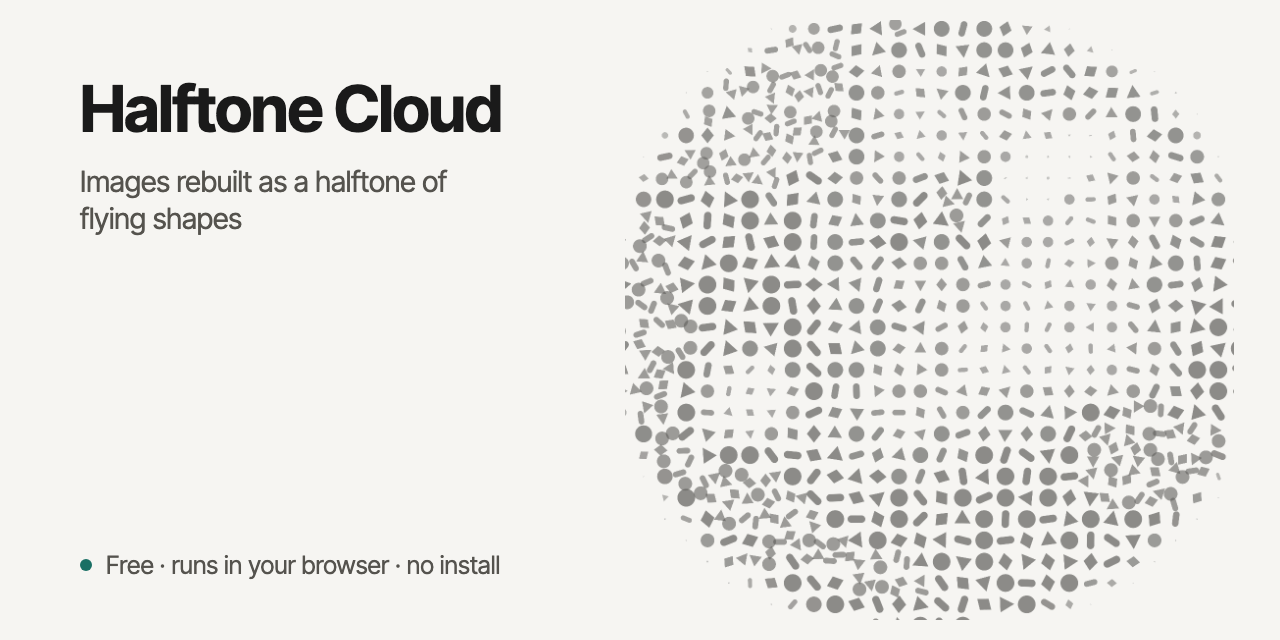
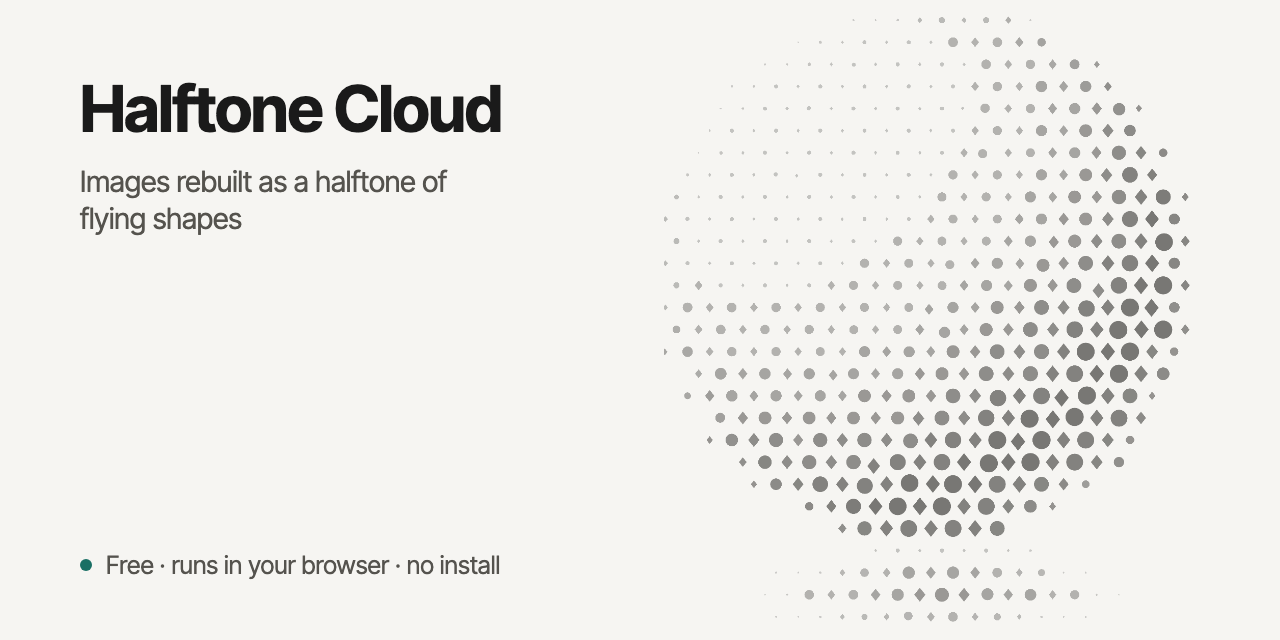
Halftone Cloud v2: opens on a finished picture, one shape per cell, tone by density

Changed region(s): [[0.4688, 0.0312, 0.9688, 0.9688]]

diff --git a/index.html b/index.html
@@ -119,7 +119,7 @@ legend{font:600 10.5px var(--h-sans);letter-spacing:.07em;color:var(--h-ink3)}
         <div id="dz">⇩ Drop files here or click</div>
         <input type="file" id="imgFile" accept="image/*" hidden multiple>
         <div style="margin-top:8px"><button class="btn" id="urlBtn">URL…</button>
-          <select class="tin" id="demoPick" style="width:auto;display:inline-block"><option>A</option><option>blob</option><option>ring</option><option>check</option></select>
+          <select class="tin" id="demoPick" style="width:auto;display:inline-block"><option>orb</option><option>A</option><option>blob</option><option>ring</option><option>check</option></select>
           <button class="btn" id="demoAdd">+ shape</button></div>
         <div class="row sel2" id="urlRow" style="display:none;margin-top:6px"><input class="tin" id="urlIn" placeholder="https://…png"><button class="btn" id="urlGo" style="margin:0">Load</button></div>
         <div id="srcList"></div>
@@ -319,7 +319,7 @@ function imageToField(src, G) {
   };
 }
 
-const SHAPES = [ 'mixed', 'char', 'circle', 'pill', 'diamond', 'triangle', 'ring', 'plus' ];
+const SHAPES = [ 'duo', 'mixed', 'char', 'circle', 'pill', 'diamond', 'triangle', 'ring', 'plus' ];
 
 const MIX = [ 'circle', 'pill', 'diamond', 'triangle' ];
 
@@ -371,15 +371,18 @@ const state = {
     radius: 1
   },
   grid: {
-    cell: 14,
-    steps: 6,
-    minR: 3,
-    maxR: 15,
-    floorCut: .1,
+    cell: 18,
+    steps: 7,
+    minR: 2.8,
+    maxR: 12.5,
+    floorCut: .07,
     soft: .2,
-    edgeFade: .25,
+    edgeFade: 0,
     scale: 1,
-    jitter: .35,
+    jitter: 0,
+    stagger: 1,
+    tone: .34,
+    breath: .05,
     invert: 0
   },
   story: {
@@ -392,7 +395,7 @@ const state = {
     transition: 'direct'
   },
   obj: {
-    shape: 'mixed',
+    shape: 'duo',
     symbols: '✳,●,◆',
     size: 1,
     variance: .4,
@@ -416,9 +419,9 @@ const gl = cv.getContext('webgl2', {
 
 let W = 0, H = 0, DPR = 1;
 
-const VERT = `#version 300 es\nlayout(location=0) in vec2 a_quad;\nlayout(location=1) in vec2 a_pos;\nlayout(location=2) in float a_size;\nlayout(location=3) in float a_alpha;\nlayout(location=4) in float a_rot;\nlayout(location=5) in float a_glyph;\nuniform vec2 u_res; uniform float u_atlasN;\nout vec2 v_uv; out float v_alpha; out float v_tone;\nvoid main(){\n  float s=sin(a_rot), c=cos(a_rot);\n  vec2 q=vec2(a_quad.x*c-a_quad.y*s, a_quad.x*s+a_quad.y*c);\n  vec2 p=q*a_size + a_pos;\n  vec2 clip=(p/u_res)*2.0-1.0; clip.y=-clip.y;\n  gl_Position=vec4(clip,0.0,1.0);\n  vec2 uv=a_quad+0.5;\n  v_uv=vec2((uv.x + a_glyph)/u_atlasN, uv.y);\n  v_alpha=a_alpha;\n  v_tone=mix(0.34,0.86,clamp((a_size-6.0)/30.0,0.0,1.0));\n}`;
+const VERT = `#version 300 es\nlayout(location=0) in vec2 a_quad;\nlayout(location=1) in vec2 a_pos;\nlayout(location=2) in float a_size;\nlayout(location=3) in float a_alpha;\nlayout(location=4) in float a_rot;\nlayout(location=5) in float a_glyph;\nuniform vec2 u_res; uniform float u_atlasN;\nout vec2 v_uv; out float v_alpha;\nvoid main(){\n  float s=sin(a_rot), c=cos(a_rot);\n  vec2 q=vec2(a_quad.x*c-a_quad.y*s, a_quad.x*s+a_quad.y*c);\n  vec2 p=q*a_size + a_pos;\n  vec2 clip=(p/u_res)*2.0-1.0; clip.y=-clip.y;\n  gl_Position=vec4(clip,0.0,1.0);\n  vec2 uv=a_quad+0.5;\n  v_uv=vec2((uv.x + a_glyph)/u_atlasN, uv.y);\n  v_alpha=a_alpha;\n}`;
 
-const FRAG = `#version 300 es\nprecision mediump float;\nin vec2 v_uv; in float v_alpha; in float v_tone;\nuniform sampler2D u_atlas; uniform vec3 u_ink;\nout vec4 frag;\nvoid main(){ float a=texture(u_atlas,v_uv).a*v_alpha*v_tone; if(a<0.01) discard; frag=vec4(u_ink*a, a); }`;
+const FRAG = `#version 300 es\nprecision mediump float;\nin vec2 v_uv; in float v_alpha;\nuniform sampler2D u_atlas; uniform vec3 u_ink;\nout vec4 frag;\nvoid main(){ float a=texture(u_atlas,v_uv).a*v_alpha; if(a<0.01) discard; frag=vec4(u_ink*a, a); }`;
 
 function compile(type, src) {
   const s = gl.createShader(type);
@@ -582,6 +585,7 @@ function glyphIndexFor(b) {
     const base = MIX.length + 3;
     return base + b.id % Math.max(1, SYMS.length);
   }
+  if (sh === 'duo') return b.id % 2 ? MIX.indexOf('diamond') : MIX.indexOf('circle');
   if (sh === 'mixed') return b.id % MIX.length;
   const gl2 = GLYPHS();
   const idx = gl2.findIndex(g => g.type === 'shape' && g.val === sh);
@@ -647,14 +651,19 @@ function ensurePool() {
 function layout(f) {
   const boxH = Math.min(W, H) * .82 * (state.grid.scale || 1), scale = boxH / f.rows, gw = f.cols * scale, gh = f.rows * scale;
   const ox = target.x * W - gw / 2, oy = target.y * H - gh / 2, G = state.grid, out = [];
+  const MIXI = MIX.indexOf('circle'), DIAI = MIX.indexOf('diamond');
   for (const cell of f.cells) {
     const jr = rng((cell.c * 73856093 ^ cell.r * 19349663 ^ seed) >>> 0);
-    const jx = (jr() - .5) * G.jitter * scale, jy = (jr() - .5) * G.jitter * scale;
+    const jx = (jr() - .5) * G.jitter * scale, jy = (jr() - .5) * G.jitter * scale, st = G.stagger && cell.r & 1 ? .5 * scale : 0;
     const size = lerp(G.minR, G.maxR, Math.sqrt(cell.q)) * state.obj.size * cell.sf;
+    const tone = lerp(G.tone, .82, Math.pow(cell.q, .85)) * lerp(.7, 1, cell.sf);
+    const gi = state.obj.shape === 'duo' ? cell.c + cell.r & 1 ? DIAI : MIXI : -1;
     out.push({
-      x: ox + (cell.c + .5) * scale + jx,
+      x: ox + (cell.c + .5) * scale + jx + st,
       y: oy + (cell.r + .5) * scale + jy,
-      size: size
+      size: size,
+      tone: tone,
+      gi: gi
     });
   }
   return out;
@@ -671,41 +680,30 @@ function assign(f) {
   let cells = cellsAll;
   if (cells.length > n) cells = cellsAll.slice().sort((a, b) => b.size * b.size - a.size * a.size).slice(0, n);
   const M = cells.length;
-  const mass = cells.map(c => Math.max(.001, c.size * c.size));
-  let sum = 0;
-  for (const m of mass) sum += m;
-  const alloc = new Array(M).fill(1);
-  let remaining = n - M;
-  const want = mass.map(m => remaining * m / sum);
-  for (let i = 0; i < M; i++) alloc[i] += Math.floor(want[i]);
-  let leftover = n - alloc.reduce((a, b) => a + b, 0);
-  const frac = want.map((w, i) => ({
-    i: i,
-    f: w - Math.floor(w)
-  })).sort((a, b) => b.f - a.f);
-  for (let j = 0; leftover > 0; j++, leftover--) alloc[frac[j % M].i]++;
-  const flat = [];
-  for (let i = 0; i < M; i++) {
-    const c = cells[i], k = alloc[i], sz = c.size / Math.sqrt(k) * 1.12;
-    for (let j = 0; j < k; j++) {
-      const rr = rng((i * 2654435761 ^ j * 40503 ^ seed >>> 0) >>> 0);
-      const ang = rr() * 6.2832, rad = k > 1 ? Math.sqrt(rr()) * c.size * .52 : 0;
-      flat.push({
-        x: c.x + Math.cos(ang) * rad,
-        y: c.y + Math.sin(ang) * rad,
-        size: sz
-      });
-    }
-  }
+  const flat = cells.map(c => ({
+    x: c.x,
+    y: c.y,
+    size: c.size,
+    tone: c.tone,
+    gi: c.gi
+  }));
   const kf = g => Math.round(g.y / 22) * 1e5 + g.x;
   const order = bits.map((b, i) => i).sort((a, b) => kf(bits[a]) - kf(bits[b]));
   flat.sort((a, b) => kf(a) - kf(b));
-  for (let k = 0; k < n; k++) {
-    const b = bits[order[k]], g = flat[k];
+  const take = Math.min(M, n), stride = n / take;
+  for (const b of bits) {
+    b.spare = true;
+    b.bound = false;
+  }
+  for (let k = 0; k < take; k++) {
+    const b = bits[order[Math.min(n - 1, Math.round(k * stride))]], g = flat[k];
+    b.spare = false;
     b.bound = true;
     b.tx = g.x;
     b.ty = g.y;
     b.tsize = g.size;
+    b.ttone = g.tone;
+    b.tgi = g.gi;
     b.talpha = 1;
   }
 }
@@ -764,8 +762,15 @@ function step(b, dt) {
     }
     b.x += b.vx * dt * s.speed;
     b.y += b.vy * dt * s.speed;
-    b.rad += (b.tsize - b.rad) * Math.min(1, dt * 4);
-    b.al += (1 - b.al) * Math.min(1, dt * 5);
+    const br = 1 + state.grid.breath * Math.sin(t * .9 + (b.tx + b.ty) * .012);
+    b.rad += (b.tsize * br - b.rad) * Math.min(1, dt * 4);
+    b.al += ((b.ttone ?? 1) - b.al) * Math.min(1, dt * 5);
+    if (fe > .5 && b.tgi >= 0 && b.tgi != null) b.gi = b.tgi;
+    if (fe > .5) {
+      let r = ((b.rot + Math.PI) % (Math.PI * 2) + Math.PI * 2) % (Math.PI * 2) - Math.PI;
+      b.av = 0;
+      b.rot -= r * Math.min(1, dt * 6);
+    }
   } else {
     const near = [];
     const cs = Math.max(40, sw.separation * .4);
@@ -801,10 +806,12 @@ function step(b, dt) {
     if (b.y < -30) b.y = H + 30;
     if (b.y > H + 30) b.y = -30;
     b.rad += (b.baseRad - b.rad) * Math.min(1, dt * 3);
-    b.al += (.86 - b.al) * Math.min(1, dt * 3);
+    b.al += ((b.spare && (phase === 'forming' || phase === 'held') ? 0 : .62) - b.al) * Math.min(1, dt * 3);
   }
-  b.av *= dampFactor(.9, dt);
-  b.rot += b.av * dt + Math.sin(t * .3 + b.seed * 11) * dt * .4;
+  if (!forming) {
+    b.av *= dampFactor(.9, dt);
+    b.rot += b.av * dt + Math.sin(t * .3 + b.seed * 11) * dt * .4;
+  } else b.rot += b.av * dt;
 }
 
 let nGrid = new Map;
@@ -949,7 +956,26 @@ function demoCanvas(kind) {
   c.fillStyle = '#fff';
   c.fillRect(0, 0, S, S);
   c.fillStyle = '#111';
-  if (kind === 'A') {
+  if (kind === 'orb') {
+    const im = c.createImageData(S, S), d = im.data, R = S * .36, cx = S * .5, cy = S * .44;
+    const lx = -.5, ly = -.56, lz = .66, ll = Math.hypot(lx, ly, lz);
+    for (let y = 0; y < S; y++) for (let x = 0; x < S; x++) {
+      const o = (y * S + x) * 4;
+      let L = 1;
+      const nx = (x + .5 - cx) / R, ny = (y + .5 - cy) / R, q = nx * nx + ny * ny;
+      const sx = (x + .5 - S * .52) / (S * .3), sy = (y + .5 - S * .865) / (S * .075), sd = sx * sx + sy * sy;
+      if (sd < 1) L = Math.min(L, 1 - .5 * Math.pow(1 - sd, 1.6));
+      if (q < 1) {
+        const nz = Math.sqrt(1 - q), lam = Math.max(0, (nx * lx + ny * ly + nz * lz) / ll);
+        const bounce = Math.pow(Math.max(0, nx * .55 + ny * .7), 2) * (1 - nz) * .22;
+        L = Math.min(.8, .12 + .8 * Math.pow(lam, .85) + bounce);
+      }
+      const v = Math.round(L * 255);
+      d[o] = d[o + 1] = d[o + 2] = v;
+      d[o + 3] = 255;
+    }
+    c.putImageData(im, 0, 0);
+  } else if (kind === 'A') {
     c.font = '700 210px ui-monospace, monospace';
     c.textAlign = 'center';
     c.textBaseline = 'middle';
@@ -1076,7 +1102,7 @@ function onParam(key) {
       cur = FIELDS[beat];
       assign(cur);
     }
-  } else if (cur && phase !== 'free' && (key === 'grid.minR' || key === 'grid.maxR' || key === 'grid.jitter' || key === 'grid.scale' || key === 'obj.size')) assign(cur);
+  } else if (cur && phase !== 'free' && (key === 'grid.minR' || key === 'grid.maxR' || key === 'grid.jitter' || key === 'grid.scale' || key === 'obj.size' || key === 'grid.stagger' || key === 'grid.tone')) assign(cur);
 }
 
 function sliders(elId, defs) {
@@ -1153,7 +1179,7 @@ function applyManner(m) {
   state.swarm.flow = p.flow;
 }
 
-sliders('gGrid', [ [ 'grid.scale', 'Photo scale', .3, 1.6, .05 ], [ 'grid.cell', 'Cell', 6, 26, 1 ], [ 'grid.steps', 'Steps', 2, 16, 1 ], [ 'grid.minR', 'Min size', 2, 10, .2 ], [ 'grid.maxR', 'Max size', 6, 26, .5 ], [ 'grid.floorCut', 'Background cut', 0, .5, .02 ], [ 'grid.soft', 'Edge feather', 0, .6, .02 ], [ 'grid.edgeFade', 'Edge fade', 0, 1, .05 ], [ 'grid.jitter', 'Jitter', 0, .9, .05 ], [ 'grid.invert', 'Invert (light = large)', 0, 1, 1 ] ]);
+sliders('gGrid', [ [ 'grid.scale', 'Photo scale', .3, 1.6, .05 ], [ 'grid.cell', 'Cell', 6, 26, 1 ], [ 'grid.steps', 'Steps', 2, 16, 1 ], [ 'grid.minR', 'Min size', 2, 10, .2 ], [ 'grid.maxR', 'Max size', 6, 26, .5 ], [ 'grid.floorCut', 'Background cut', 0, .5, .02 ], [ 'grid.soft', 'Edge feather', 0, .6, .02 ], [ 'grid.edgeFade', 'Edge fade', 0, 1, .05 ], [ 'grid.jitter', 'Jitter', 0, .9, .05 ], [ 'grid.stagger', 'Stagger rows', 0, 1, 1 ], [ 'grid.tone', 'Lightest tone', .1, .8, .02 ], [ 'grid.breath', 'Breath', 0, .2, .01 ], [ 'grid.invert', 'Invert (light = large)', 0, 1, 1 ] ]);
 
 sliders('gStory', [ [ 'story.urge', 'Snap force', 10, 90, 2 ], [ 'story.dwell', 'Hold (loop)', .5, 6, .1 ], [ 'story.gap', 'Dissolve', .4, 3, .1 ] ]);
 
@@ -1377,6 +1403,26 @@ syncLoop();
 setNow('Halftone', 'free cloud · drop an image');
 
 requestAnimationFrame(frame);
+
+(() => {
+  const id = addField(demoCanvas('orb'), 'orb');
+  showBeat(id);
+  for (const b of bits) {
+    if (b.bound) {
+      b.x = b.tx;
+      b.y = b.ty;
+      b.vx = b.vy = 0;
+      b.rad = b.tsize;
+      b.al = b.ttone;
+      b.rot = 0;
+      b.av = 0;
+      b.gi = b.tgi >= 0 ? b.tgi : b.gi;
+    }
+  }
+  phase = 'held';
+  pt = 0;
+  setNow('orb', 'held');
+})();
 
 function selftest() {
   let ok = !!prog && gl.getProgramParameter(prog, gl.LINK_STATUS) && ATLAS_N > 0;
